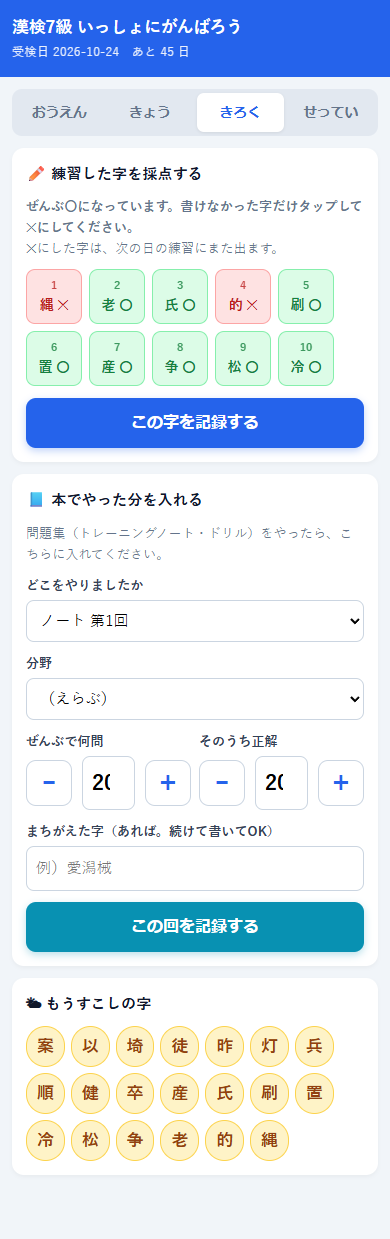
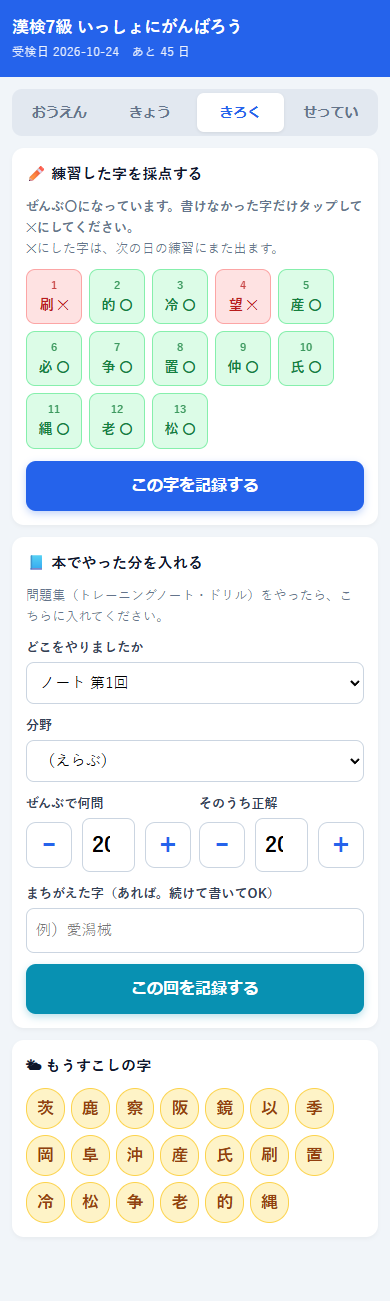
読みを後半に追加し、紙をブロック分割。合格圏の判定を配点ベースに直す
- 読み30点分を後半（自己申告→紙）に追加。★4択にしない
  （本番は「ひらがなで書きなさい」で、思い出して書く力を見るため）
- 練習プリントを「なぞって書く」と「読みかたを書く」の2ブロックに分割
- 読みの答えを紙の下に印刷（親御さんが紙1枚で採点を完結できるように）
- 書き取りができる字には読みを出さない（書ける ⊃ 読める。時間の節約）
- ★合格圏の判定が「分野の数」だったのを「配点」に修正。
  対義語10点と書き取り40点を同じ1個と数えていたため、80点分が未測定でも
  「合格圏に入っています！」と出ていた。
  → 合格ラインと同じ140点分を測るまでは、合格圏かどうかを言わない
- 前半の切りかえ画面から正解数を外す（ユーザー判断・出鼻をくじかないため）

smoke-test 78件・全通過

Claude-Session: https://claude.ai/code/session_01KvmoCuNiHyZhgnSuYiRTRm

diff --git a/index.html b/index.html
@@ -424,7 +424,10 @@ function estimate(){
   keys.forEach(function(k){ var f=fieldOf(k); w+=(agg[k].c/agg[k].t)*f.points; p+=f.points; });
   return { agg:agg, est:p>0?Math.round(w/p*KANKEN.fullMarks):null,
            testScore:test?Math.round(test.correct/test.total*KANKEN.fullMarks):null,
-           covered:keys.length, totalFields:FIELDS.length };
+           covered:keys.length, totalFields:FIELDS.length,
+           // ★分野の「数」ではなく「配点」で、どれだけ測れたかを持つ。
+           //   対義語10点と書き取り40点を1個ずつ数えるのは、点を語るうえで意味がない
+           coveredPoints:p, totalPoints:FIELDS.reduce(function(a,f){return a+f.points;},0) };
 }
 
 /* できている字＝どれか1つでも形式で正解し、いま✕が残っていない字 */
@@ -468,7 +471,14 @@ function renderOuen(){
   //   「合格圏に入っています」と出すと【事実と違う励まし】になる。
   //   本番直前に「できるはずだったのに」となるのが、いちばん避けたいこと。
   var hasTest=(e.testScore!==null&&e.testScore!==undefined);
-  var reliable=hasTest||e.covered>=Math.ceil(e.totalFields/2);
+  // ★★「分野をいくつ測ったか」では判定しない。**配点で測る。**
+  //   分野の数で数えると、対義語10点と書き取り40点が同じ1個になる。
+  //   実際、読みを足して 5/10 分野になった瞬間に「合格圏に入っています！」と出た。
+  //   そのとき未測定だったのは 80点分（漢字えらび20・対義語10・じゅく語作り20・
+  //   同じ読み16・送りがな14）で、**合格ライン140点を語れる状態ではなかった。**
+  //   → **合格ラインと同じ140点分を測るまでは、合格圏かどうかを言わない。**
+  //     140点分を測っていなければ、140点に届くかは原理的に分からない。
+  var reliable=hasTest||e.coveredPoints>=KANKEN.passMark;
   if(shown===null||shown===undefined){
     sc.innerHTML="—<small> 点</small>";
     cap.textContent="1枚やって採点すると出ます";
@@ -481,11 +491,12 @@ function renderOuen(){
       cap.innerHTML=diff>0?'合格圏まで <b style="color:#f59e0b">あと '+diff+' 点</b>'
                           :'<b style="color:#16a34a">合格圏に入っています！</b>';
       note.innerHTML=hasTest ? "実戦テストの点です。<br>"+KANKEN.passNote
-                             : e.covered+" / "+e.totalFields+" 分野を測ったところからの目安です。";
+                             : e.coveredPoints+" 点分を測ったところからの目安です。";
     }else{
       cap.innerHTML='いまのところ <b style="color:#2563eb">'+shown+' 点</b>のペースです';
-      note.innerHTML="まだ <b>"+e.covered+" / "+e.totalFields+" 分野</b>しか測っていないので、"
-        +"これは<b>その分野だけの目安</b>です。ほかの分野もやると、本当の点数に近づきます。"
+      // ★ここも「分野の数」ではなく「点」で言う（設計: 距離は点で言う）
+      note.innerHTML="まだ <b>"+e.coveredPoints+" / "+e.totalPoints+" 点分</b>しか測っていないので、"
+        +"これは<b>その分だけの目安</b>です。ほかの分野もやると、本当の点数に近づきます。"
         +"（合格は "+KANKEN.passMark+" 点あたり）";
     }
   }
@@ -604,13 +615,14 @@ function renderKyou(){
   document.getElementById("ky-fb").textContent="";
   document.getElementById("ky-fb").className="ky-fb";
 
-  if(q.field==="kaki"){
-    // 書き取りは自己申告。★正誤はここでは決まらない（紙で書いてから）
+  if(isWriteField(q.field)){
+    // 書き取り・読みは自己申告。★正誤はここでは決まらない（紙で書いてから）
+    var yomi=(q.field==="yomi");
     document.getElementById("ky-q").innerHTML=
       q.q+(q.hint?'<span class="sub">（'+q.hint+'）</span>':"");
-    document.getElementById("ky-ask").textContent="この字、書ける？";
+    document.getElementById("ky-ask").textContent=yomi?"これ、読める？":"この字、書ける？";
     document.getElementById("ky-choices").innerHTML=
-      '<button class="ky-btn know" onclick="answerWrite(true)">書ける</button>'
+      '<button class="ky-btn know" onclick="answerWrite(true)">'+(yomi?"読める":"書ける")+'</button>'
       +'<button class="ky-btn unsure" onclick="answerWrite(false)">あやしい</button>';
   }else{
     // 選択式はその場で自動判定
@@ -642,12 +654,17 @@ function answerWrite(canWrite){
   var q=currentItem(); if(!q) return;
   if(!KSTATS[q.kanji]) KSTATS[q.kanji]={};
   var s=KSTATS[q.kanji].self||(KSTATS[q.kanji].self={say:0,hit:0,miss:0});
+  s.f=q.field;                     // ★書きの申告か、読みの申告か（紙の作り分けに要る）
   if(canWrite){
-    s.say++;                       // 「書ける」と言った回数
+    s.say++;                       // 「書ける／読める」と言った回数
     s.lastSayAt=Date.now();        // 古い申告から先に抜き取る（12-3）
     SESSION.know.push(q.kanji);
   }else{
     if(SESSION.unsure.indexOf(q.kanji)<0) SESSION.unsure.push(q.kanji);
+    // ★どちらの形式で「あやしい」と言われたかを覚えておく。
+    //   紙は形式ごとにブロックを分ける（読みを「なぞらせて」も意味がない）
+    SESSION.unsureField=SESSION.unsureField||{};
+    SESSION.unsureField[q.kanji]=q.field;
     if(!WEAK[q.kanji]) WEAK[q.kanji]={wrong:0,got:false};
     WEAK[q.kanji].got=false; WEAK[q.kanji].lastAt=Date.now();
   }
@@ -720,6 +737,21 @@ function finishSession(ranOut){
   // ★どれが検証用かは紙に書かない。並び順でも分からないように混ぜる
   SESSION.sheet=shuffle((SESSION.unsure||[]).concat(SESSION.audit), rnd);
 
+  // ★紙に出す字が、書きの分か読みの分か。ブロックを分けるのに使う
+  SESSION.sheetField={};
+  SESSION.sheet.forEach(function(k){
+    SESSION.sheetField[k]=(SESSION.unsureField&&SESSION.unsureField[k])
+      || ((KSTATS[k]&&KSTATS[k].self&&KSTATS[k].self.f) || "kaki");
+  });
+  // ★「あやしい10個」の内訳（読み何個・書き何個）。
+  //   読みが枠を奪っていないかを、推測ではなく実測で見るための記録。
+  //   ⚠ 画面には出さない（self:{say,hit,miss} と同じ理由）
+  SESSION.mix={kaki:0,yomi:0};
+  (SESSION.unsure||[]).forEach(function(k){
+    var f=(SESSION.unsureField&&SESSION.unsureField[k])||"kaki";
+    if(SESSION.mix[f]!==undefined) SESSION.mix[f]++;
+  });
+
   SET.doneDays=(SET.doneDays||[]).concat([todayStr()])
     .filter(function(v,i,a){return a.indexOf(v)===i;});
   save(K_SESSION,SESSION); save(K_SET,SET);
@@ -734,9 +766,17 @@ function finishSession(ranOut){
      責める文ではなく**予告**として書くこと。 */
 function renderKyouSwitch(){
   var s=SESSION.sel||{o:0,x:0};
+  // ★正解数は出さない（ユーザー判断・C案）。
+  //   前半は本人の言葉で「ウォームアップ」なので、**ここで点数を出すと出鼻をくじく。**
+  //   「できている字は出さない」「あと◯点で言う」「連続日数を使わない」と同じ、
+  //   やる気を削がない設計の一貫。**正解数を戻さないこと。**
+  // ★予告の一文は残す。わざと間違えれば前半を早く終われてしまうので、
+  //   **翌日また出る**ことが見えていないと損得が釣り合わない（12-3 の抜け道対策）。
+  //   ただし「まちがえた字」とは言わない。**アプリ全体で「もうすこし」を使う**
+  //   （「にがて」と呼ばないのと同じ理由。責める語感にしない）。
   document.getElementById("ky-swsub").innerHTML=
-    "えらぶ問題を <b>"+(s.o+s.x)+" 問</b>やって、<b>"+s.o+" 問</b>せいかいしたよ。"
-    +(s.x ? "<br>まちがえた字は、あしたもう一回出るよ。" : "");
+    "えらぶ問題を <b>"+(s.o+s.x)+" 問</b>やったよ。よくがんばったね。"
+    +(s.x ? "<br>きょう もうすこしだった字は、あした もう一回出るよ。" : "");
 }
 
 function renderKyouEnd(){
@@ -766,12 +806,20 @@ function printSessionPractice(){
   //   紙の上では両者を区別しない。区別すると、検証字だけ身構えて実力が測れない（12-3）
   var list=practiceList();
   if(!list.length){ alert("れんしゅうする字がありません。"); return; }
-  document.getElementById("print-region").innerHTML=
+
+  // ★形式ごとにブロックを分ける（前任が buildSheet に残してくれた考え方の流用）。
+  //   読みを「なぞらせて」も意味がない。**やることが違うので、紙の上でも分ける。**
+  var kaki=list.filter(function(k){ return sheetFieldOf(k)!=="yomi"; });
+  var yomi=list.filter(function(k){ return sheetFieldOf(k)==="yomi"; });
+
+  var html=
     '<div class="p-title">漢検7級　きょう れんしゅうする字（'+list.length+'字）</div>'
-    +'<div class="p-sub">なまえ ＿＿＿＿＿＿＿＿　'+todayStr()+'　受検日まであと '+daysLeft()+' 日</div>'
-    +'<div class="p-sec">■ なぞってから、あいているマスに書きましょう。'
-    +'<span class="p-ask">（　）は読みです。</span></div>'
-    +'<table class="p-tbl">'+list.map(function(k){
+    +'<div class="p-sub">なまえ ＿＿＿＿＿＿＿＿　'+todayStr()+'　受検日まであと '+daysLeft()+' 日</div>';
+
+  if(kaki.length){
+    html+='<div class="p-sec">■ なぞってから、あいているマスに書きましょう。'
+      +'<span class="p-ask">（　）は読みです。</span></div>'
+      +'<table class="p-tbl">'+kaki.map(function(k){
         var r=MASTER_BY_K[k]||{on:[],kun:[]};
         var cue=[].concat(r.on||[],r.kun||[]).slice(0,3).join("・");
         return "<tr><td class='p-q' style='width:24%'>"+k
@@ -780,10 +828,27 @@ function printSessionPractice(){
           +"<td class='p-model'>"+k+"</td>"
           +"<td class='p-blank'></td><td class='p-blank'></td>"
           +"<td class='p-blank'></td><td class='p-blank'></td></tr>";
-      }).join("")+'</table>'
-    +'<div class="p-key"><b>おうちの方へ</b><br>'
-    +'書けたかどうかを「きろく」画面で入れてください。'
-    +'書けなかった字は、次の日の練習に回ります。</div>';
+      }).join("")+'</table>';
+  }
+  var yomiKey=[];
+  if(yomi.length){
+    html+='<div class="p-sec">■ 読みかたを、ひらがなで書きましょう。</div>'
+      +'<table class="p-tbl">'+yomi.map(function(k){
+        var q=genYomi(k, seededRandom(SESSION.date+"|y|"+k));
+        if(q) yomiKey.push(q.q+"＝"+q.a);
+        return "<tr><td class='p-q' style='width:24%'>"+(q?q.q:k)
+          +(q&&q.hint?"<br><span style='font-size:8pt;color:#666'>（"+q.hint+"）</span>":"")
+          +"</td><td class='p-blank' colspan='5'></td></tr>";
+      }).join("")+'</table>';
+  }
+
+  // ★答えを紙の下に印刷する（設計:「親御さんが紙1枚で採点を完結できる」）。
+  //   書きはお手本が出ているので答えは要らないが、**読みは答えが紙に無いと採点できない。**
+  html+='<div class="p-key"><b>おうちの方へ</b><br>'
+    +(yomiKey.length ? "読みの答え … "+yomiKey.join("／")+"<br>" : "")
+    +'できたかどうかを「きろく」画面で入れてください。'
+    +'できなかった字は、次の日の練習に回ります。</div>';
+  document.getElementById("print-region").innerHTML=html;
   window.print();
 }
 
@@ -799,6 +864,11 @@ function practiceList(){
   return SESSION.sheet || SESSION.unsure || [];
 }
 function isAudit(k){ return !!(SESSION && SESSION.audit && SESSION.audit.indexOf(k)>=0); }
+/* その字が紙のどちらのブロックか（書き＝kaki／読み＝yomi）。
+   ★採点の書き込み先もこれで決まる。取りちがえると別の分野の記録になる。 */
+function sheetFieldOf(k){
+  return (SESSION && SESSION.sheetField && SESSION.sheetField[k]) || "kaki";
+}
 function renderMarks(){
   var box=document.getElementById("mark-box"), list=practiceList();
   if(!list.length){
@@ -822,7 +892,10 @@ function saveSheetResult(){
   list.forEach(function(k){
     var wrong=!!(SESSION.results&&SESSION.results[k]==="x");
     if(!KSTATS[k]) KSTATS[k]={};
-    var s=KSTATS[k].kaki||(KSTATS[k].kaki={o:0,x:0});
+    // ★紙のどちらのブロックだったかで、記録する分野を分ける。
+    //   まとめて kaki に入れると、読みの結果が書き取りの点として計上される
+    var fld=sheetFieldOf(k);
+    var s=KSTATS[k][fld]||(KSTATS[k][fld]={o:0,x:0});
     var audit=isAudit(k);
     // ★検証字は「書ける」と申告した字。当たったか外したかをここで記録する（12-3b）
     var self=audit ? (KSTATS[k].self||(KSTATS[k].self={say:0,hit:0,miss:0})) : null;

diff --git a/kanken-gen.js b/kanken-gen.js
@@ -322,7 +322,12 @@ var SELECT_FIELDS = ["kakusu", "bushu", "onkun"];
      後半は1問≒5秒で2〜3分。**合わせて10分に収まる。** */
 var SELECT_LIMIT = 20, SELECT_MISS_TARGET = 10;
 
-/* ★選択式（4択）かどうか。まぐれ当たり対策の判定に使う（引き継ぎ.md 12-1 の ⚠）。
+/* ★後半（自己申告→紙）で出す形式。どちらも「思い出して書く」力を見るので、
+   選択肢を出さない。**読みを4択にしないこと**（引き継ぎ.md 6章・12-1）。 */
+var WRITE_FIELDS = ["kaki", "yomi"];
+function isWriteField(f) { return WRITE_FIELDS.indexOf(f) >= 0; }
+
+/* ★選択式かどうか。まぐれ当たり対策の判定に使う（引き継ぎ.md 12-1 の ⚠）。
    書く形式（kaki・yomi）は当てずっぽうで当たらないので、この扱いをしない。 */
 function isSelectField(f) { return SELECT_FIELDS.indexOf(f) >= 0; }
 
@@ -355,6 +360,22 @@ function buildSession(opts) {
   var writeK = pickKanji("kaki", kstats, opts.writePool || 80, rnd, opts.grades, used);
   writeK.forEach(function (r) { used[r.k] = 1; });
 
+  // ★読みも後半（自己申告→紙）に入れる。**4択にしない。**
+  //   本番の(一)(二)は「ひらがなで書きなさい」で、**思い出して書く**力を見る。
+  //   4択にすると「見て分かる」力を測って30点分に引き伸ばすことになり、
+  //   見かけの点だけ上がって本番では取れない（＝事実と違う励まし。引き継ぎ.md 6章）。
+  //   書き取りの字を先に押さえてから取る（書き取り40点のほうが大きいため）。
+  //   ★書き取りができる字は、読みを出さない。**書ける ⊃ 読める** なので、
+  //     読みを出すのは時間の無駄（45日×10分しかない。「できている字は出さない」）。
+  //     逆は成り立たないので、読めるからといって書き取りを外してはいけない。
+  var yomiSkip = {};
+  Object.keys(used).forEach(function (k) { yomiSkip[k] = 1; });
+  KANJI_MASTER.forEach(function (r) {
+    if (fieldDone((kstats[r.k] || {}).kaki, "kaki")) yomiSkip[r.k] = 1;
+  });
+  var yomiK = pickKanji("yomi", kstats, opts.yomiPool || 40, rnd, opts.grades, yomiSkip);
+  yomiK.forEach(function (r) { used[r.k] = 1; });
+
   // 選択式の候補。書き取りに使う字は避ける
   // ★★この除外は絶対に外さないこと（確認ポイント A-1）。
   //   練習プリントは **字とその読みを印刷する**（`氏（シ・うじ）`）ので、
@@ -374,8 +395,12 @@ function buildSession(opts) {
   //   ここで偏らせると、コスパの高い分野がまるごと育たない日が出る。
   selItems = roundRobin(byField, rnd).slice(0, opts.selectLimit || SELECT_LIMIT);
 
-  var writeItems = [];
-  writeK.forEach(function (r) { var q = genKaki(r.k, rnd); if (q) writeItems.push(q); });
+  // 後半は書きと読みを順ぐりに。どちらも「自分はできるか」の自己申告なので、
+  // 頭の切りかえは起きない（前半と後半を分けたのは、そこが違うため）
+  var kakiItems = [], yomiItems = [];
+  writeK.forEach(function (r) { var q = genKaki(r.k, rnd); if (q) kakiItems.push(q); });
+  yomiK.forEach(function (r) { var q = genYomi(r.k, rnd); if (q) yomiItems.push(q); });
+  var writeItems = roundRobin([kakiItems, yomiItems], rnd);
 
   // ★前半＝選択式、後半＝書き（2026-09-09 の設計変更）。
   //   もとは交互だったが、次の理由で分けた。

diff --git a/作業メモ.md b/作業メモ.md
@@ -635,3 +635,75 @@ playwright はグローバル導入ぶんを自動で探す。パスに日本語
 - **総画数は5択（8〜12画のような連番）**だった。4択ではない。当てずっぽうは20%
 - 切りかえ画面の「**えらぶ問題を14問やって、4問せいかいしたよ**」は、
   **できなかった日に少しきつい**かもしれない。文言はお子さんを見ているユーザーの判断が要る
+
+### ひと区切り⑥: 読みを後半に追加・紙をブロック分割（2026-09-09）
+
+- **読み30点分を後半（自己申告→紙）に入れた。★4択にしていない。**
+  本番の(一)(二)は「ひらがなで**書きなさい**」で、**思い出して書く**力を見る。
+  4択にすると「見て分かる」力を測って30点に引き伸ばすことになり、
+  **見かけの点だけ上がって本番では取れない**（＝事実と違う励まし）
+- 画面は「これ、読める？」→「読める／あやしい」
+- **紙をブロックで分けた。**「なぞって書く」と「読みかたを書く」。
+  読みを**なぞらせても意味がない**ため
+- **★読みの答えを紙の下に印刷した。**書きはお手本が出ているので要らないが、
+  **読みは答えが紙に無いと親御さんが採点できない**（設計:「紙1枚で採点を完結」）
+- `SESSION.mix={kaki,yomi}` に**「あやしい10個」の内訳**を記録（**画面には出さない**）
+
+#### ★この作業で見つかって直した、既存の2件
+**1. 「書き取りができる字に、読みを出していた」**
+**書ける ⊃ 読める** なので、書ける字の読みを出すのは時間の無駄
+（45日×10分しかない。「できている字は出さない」）。→ 読みの候補から外した。
+**逆は成り立たない**（読めても書けるとは限らない）ので、そちらは出し続ける。**両方テストで固定。**
+
+**2. ★「合格圏に入っています！」が、また出た**（前任が8章④で直したのと同じ型）
+原因は**判定が「分野の数」だったこと。** `covered >= 分野数/2` で、
+**対義語10点と書き取り40点を、同じ1個として数えていた。**
+読みを足して 5/10 分野になった瞬間に「合格圏」と出た。
+そのとき未測定だったのは**80点分**（漢字えらび20・対義語10・じゅく語作り20・同じ読み16・送りがな14）。
+→ **配点で判定する形に変えた。「合格ラインと同じ140点分を測るまでは、合格圏かどうかを言わない。」**
+　 140点分を測っていなければ、140点に届くかは**原理的に分からない**ため。
+　 画面の文言も「N/10 分野」→「N/200 点分」に変更（**距離は点で言う**という設計に合わせた）。
+
+### 検証
+`smoke-test.mjs` **78件・全通過**／`test_gen.js` 全通過／印刷物を目視確認。
+
+---
+
+## ★保留（本の到着後に決める）— 2026-09-09 ユーザー指示
+
+**セッションが落ちるといちばん失われるので、理由まで書き残します。**
+
+### 保留1: 後半の「書き」を、単漢字ではなく**熟語**にする
+> 「練習は熟語にしてほしいですが、そのへんは**問題を見てからでいい**ですね」（ユーザー原文）
+
+**理由**: 本番の書き取りも熟語で出るので、そちらに寄せる。
+**いま実装しない。**問題集の実物を見て、**どういう熟語が、どの粒度で出るか**を確認してから決める。
+
+**★実装から見た報告（司令塔の心配への答え）**
+「出題単位が字に固定されていると大工事になる」という懸念について、**その心配は要りません。**
+**問題id は `<形式>_<漢字>`（`kaki_愛`）で、`愛` という字が自然キー**です（11章）。
+熟語にしても、**1問で試すのは1字**（愛読なら「愛」）なので、**id は動きません。**
+変わるのは**手がかり（cue）だけ**です — いまは訓読み（`うむ（音: サン）`）、
+これが熟語（`愛読の アイ`）に変わるだけ。`genKaki` の中身の差し替えで済みます。
+**C-5（一度配ったidは変えない）は守られます。**
+※ ただし**1問で2字以上を書かせる**形にすると id が壊れます。**そこは避けてください。**
+
+### 保留2: **画数の出題を減らす**
+> 「画数は**もっとほんのちょっとでいい**気がします、**数えるだけ**ですし」（ユーザー原文）
+
+**理由**: 数えれば答えが出るので、練習量に対して得点が伸びにくい。
+
+**★配点の裏取り（一次資料で確認済み）**
+`公式資料\outline_degree_example_7m_3.pdf`（7級 実物・2022年度第3回）と
+`..._7k_3.pdf`（標準解答・配点入り）より、**(四)何画目・総画数＝10問・10点**。
+**200点中の10点＝5%**（引き継ぎ.md 1章の表。合計200点で検算済み）。
+
+**いまの実装の比率**: 前半は3形式（画数・部首・音訓）を**順ぐりに均等**で取るので、
+**画数が約1/3（20問中6〜7問）**。**5%の配点に対して33%出している＝明らかに過大。**
+
+**配点で重みづけすると**: 画数10 ÷（画数10＋部首20＋音訓20）＝ **20%（20問中4問）**。
+※ 前半に入る予定の漢字えらび20・じゅく語作り20を足すと、さらに **11%（20問中2問）**まで下がる。
+
+→ **`roundRobin` を「配点で重みづけした配分」に替えるだけ**で直ります（小さい変更）。
+　 **ゼロにはしない**（ユーザー指示）。
+　 **司令塔に案を出して、指示を待っている状態。**
